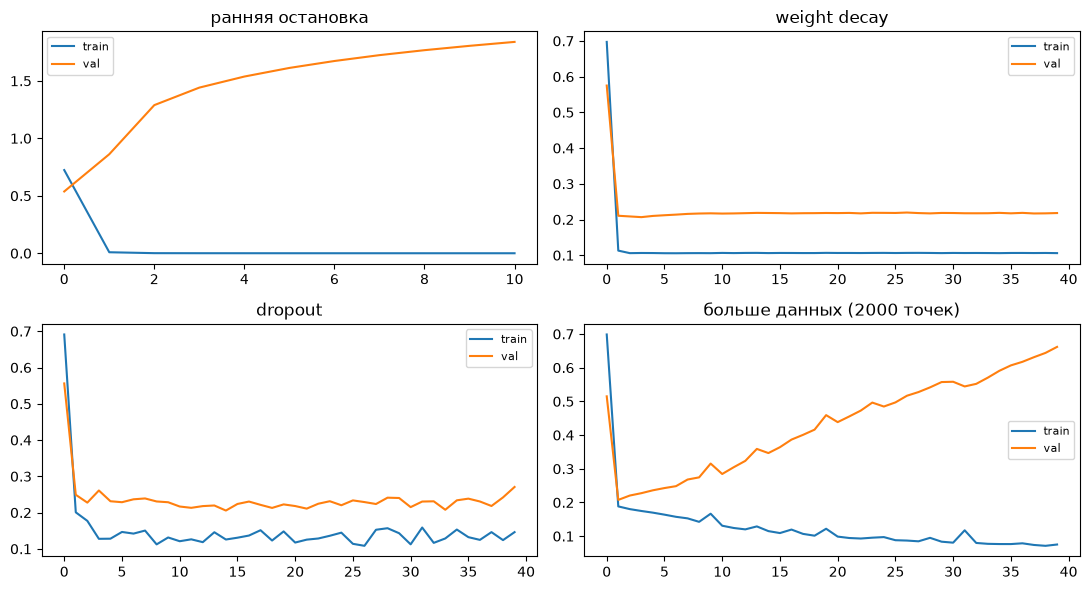
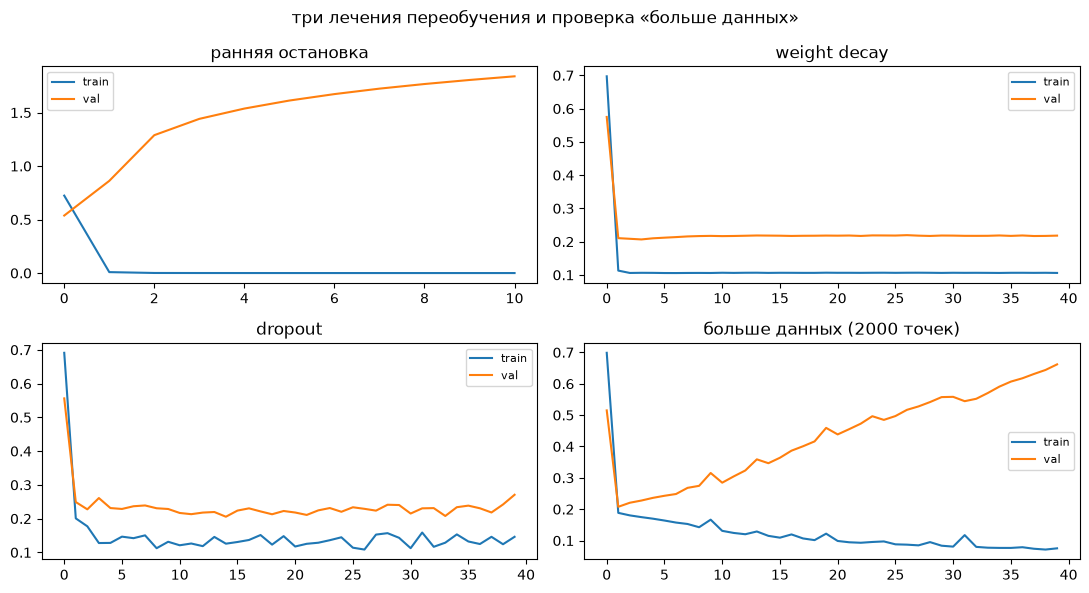
Лаба 9: заголовки у графиков полиномов и трёх лечений

diff --git a/lab_09/overfit.py b/lab_09/overfit.py
@@ -29,6 +29,7 @@ for d in [1, 4, 15]:
     print(f'{d:>7}  {np.mean((m.predict(X[:, None]) - y)**2):.4f}  {np.mean((m.predict(Xv[:, None]) - yv)**2):.4f}')
 
 fig, axes = plt.subplots(1, 3, figsize=(12, 3.5))
+fig.suptitle('подгонка полинома разной степени: 1, 4, 15')
 for ax, d in zip(axes, [1, 4, 15]):
     m = make_pipeline(PolynomialFeatures(d), LinearRegression()).fit(X[:, None], y)
     xs = np.linspace(0, 1, 200)
@@ -118,6 +119,7 @@ acc_more = val_acc(more)
 print(f'больше данных: val loss {best_more:.4f}, val acc {acc_more:.3f} (val на 1000 точках)')
 
 fig, axes = plt.subplots(2, 2, figsize=(11, 6))
+fig.suptitle('три лечения переобучения и проверка «больше данных»')
 for ax, (a, b, t) in zip(axes.flat, [
     (tr_es, va_es, 'ранняя остановка'),
     (tr_wd, va_wd, 'weight decay'),
